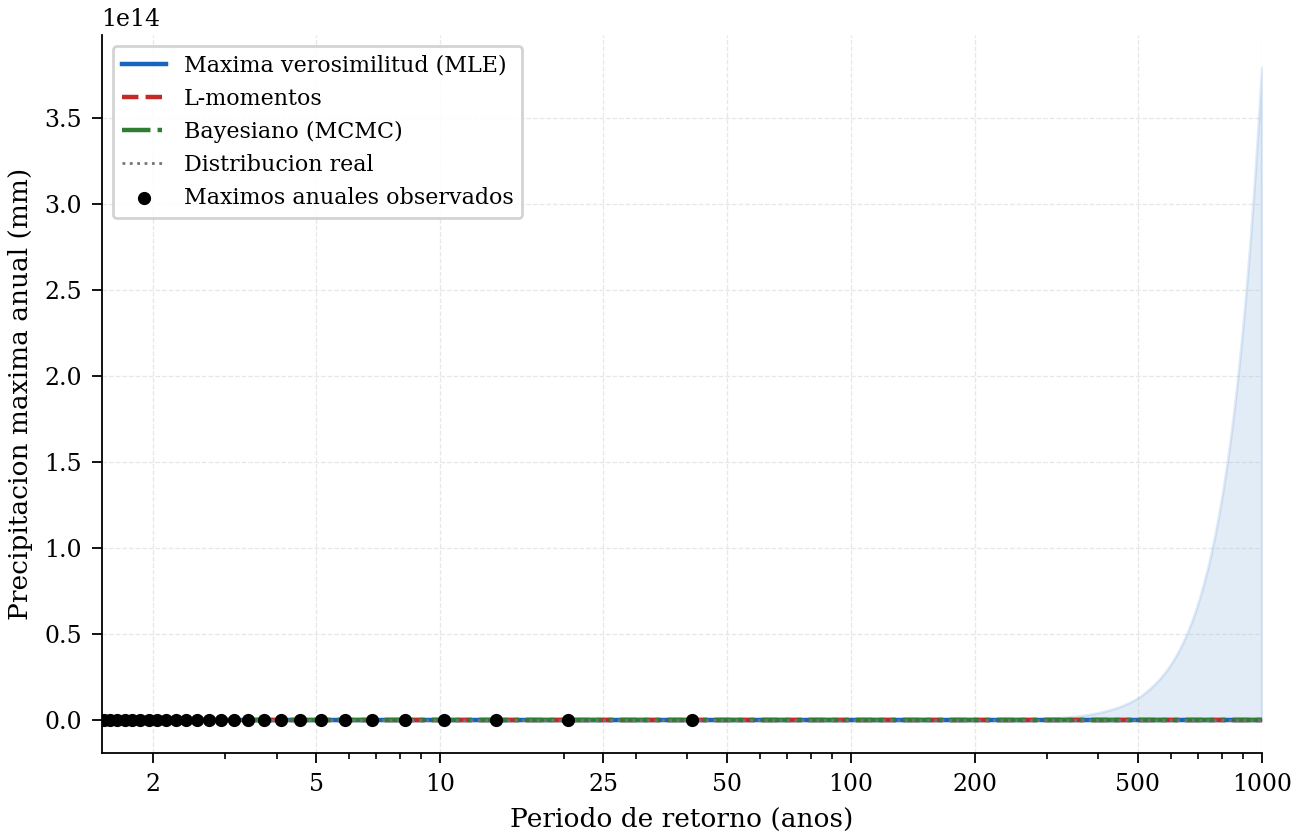
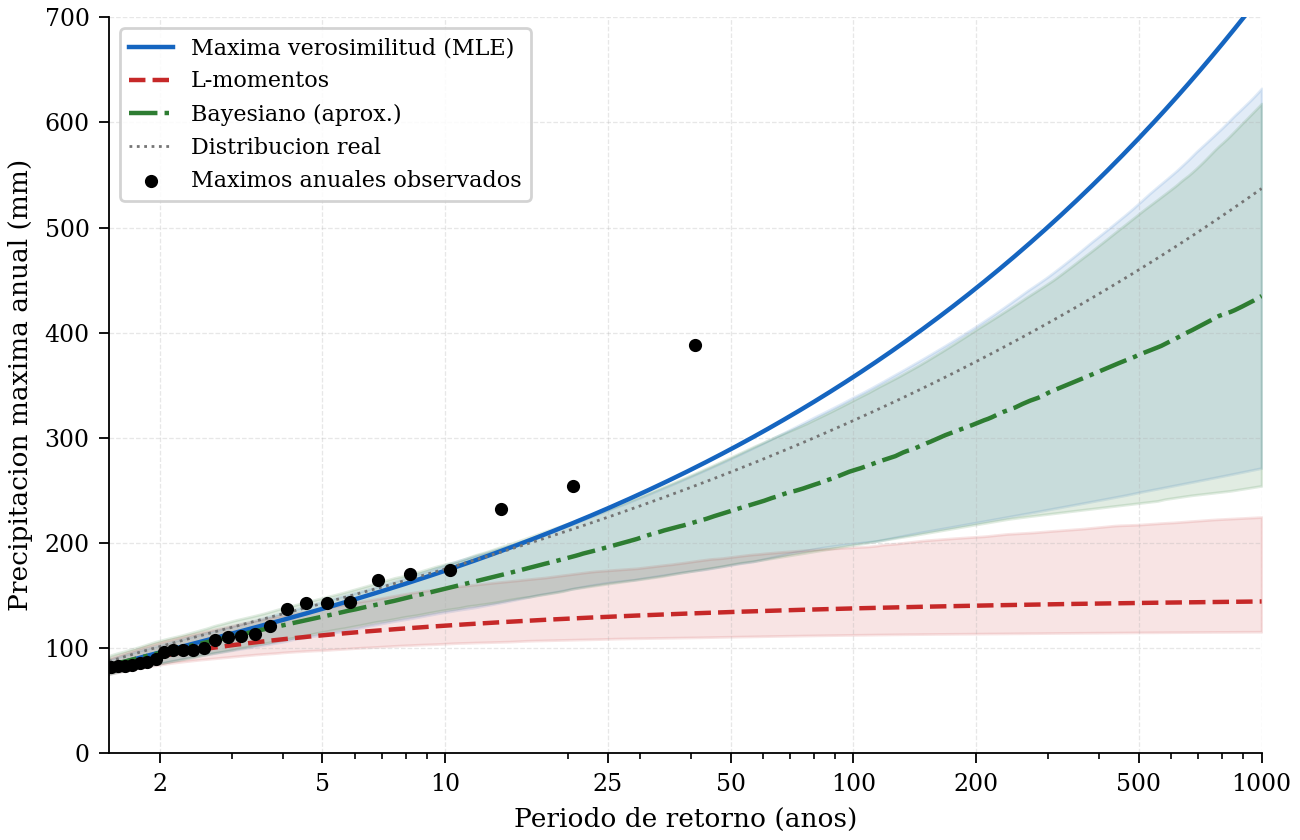
Revisa figuras y trazabilidad de datos de tesis

diff --git a/thesis/chapters/07_manual_uso.tex b/thesis/chapters/07_manual_uso.tex
@@ -196,32 +196,29 @@ Además de los notebooks funcionales generales, el directorio del caso piloto de
 \subsection{Qué puede ejecutar un tercero}
 \label{sec:reproducibilidad_tercero}
 
-La reproducibilidad de \hydra se entiende en términos concretos: qué puede ejecutar un tercero mañana, con qué datos y en qué tiempo. La siguiente tabla clasifica los elementos reproducibles por tipo de dependencia y resultado esperado.
+La reproducibilidad de \hydra se entiende en términos concretos: qué puede ejecutar un tercero, qué dependencia externa condiciona la ejecución y qué evidencia queda para auditar el resultado. La \cref{tab:reproducibilidad} no es una promesa de tiempos universales, sino una matriz de madurez reproducible de los flujos documentados.
 
 \begin{table}[htbp]
   \centering
-  \small
-  \caption{Elementos reproducibles de \hydra clasificados por disponibilidad, datos y tiempo estimado de ejecución.}
+  \footnotesize
+  \caption{Matriz de reproducibilidad de los flujos documentados en \hydra.}
   \label{tab:reproducibilidad}
-  \begin{tabular}{p{0.23\textwidth}p{0.09\textwidth}p{0.13\textwidth}p{0.13\textwidth}p{0.28\textwidth}}
+  \begin{tabular}{@{}>{\raggedright\arraybackslash}p{0.24\textwidth}>{\raggedright\arraybackslash}p{0.17\textwidth}>{\raggedright\arraybackslash}p{0.24\textwidth}>{\raggedright\arraybackslash}p{0.23\textwidth}@{}}
     \toprule
-    Elemento & Disp. & Datos & Tiempo & Resultado esperado \\
+    Flujo & Nivel reproducible & Dependencia externa & Evidencia auditable \\
     \midrule
-    Ajuste GEV sintético (MLE, L-mom., bayesiano) & Sí & Sintéticos & $<$5 min & Curvas de período de retorno con bandas de incertidumbre (fig.~5.1) \\[3pt]
-    Análisis de inundación compuesta (cópulas) & Sí & Sintéticos & $<$5 min & Isolíneas AND/OR, MPDE (fig.~5.2) \\[3pt]
-    Generación estocástica NEOPRENE (NSRP/STNSRP) & Sí & Sintéticos & $<$15 min & Series de lluvia sintéticas puntuales y multisitio \\[3pt]
-    Corrección de sesgo delta/EQM & Sí & Sintéticos o ERA5, CMIP6 & $<$10 min & NetCDF corregido con señal de cambio preservada \\[3pt]
-    Interpolación espacial y AFR & Sí & Sintéticos o AEMET & $<$10 min & GeoTIFF interpolado, cuantiles regionales \\[3pt]
-    Descarga ERA5 (requiere cuenta CDS) & Sí & API abierta & Horas & NetCDF ERA5 horario/mensual \\[3pt]
-    Descarga CMIP6 (requiere cuenta CDS) & Sí & API abierta & Horas & NetCDF de proyecciones por modelo y escenario \\[3pt]
-    Simulación HEC-HMS (requiere HEC-HMS) & Sí & Modelos de referencia & 10--60 min & Hidrogramas DSS para 200 eventos sintéticos \\[3pt]
-    Flujo hidráulico completo con SFINCS & Parcial & DEM + hidrogramas & Horas--días & Mapas de calado por evento, períodos de retorno por pixel \\[3pt]
-    Caso piloto completo (Corrales de Buelna) & Parcial & Datos abiertos + modelo & Días & Distribución de calados, mapa de período de retorno \\
+    Ajuste GEV y comparación de estimadores & Completo & Ninguna; datos sintéticos incluidos & Figura 5.1, parámetros ajustados e intervalos \\
+    Cópulas e inundación compuesta & Completo & Ninguna; datos sintéticos incluidos & Isolíneas AND/OR y punto de diseño MPDE \\
+    Generación estocástica NEOPRENE/CoSMoS & Completo & Librerías instaladas en el entorno Docker & Series sintéticas, semillas y parámetros \\
+    Corrección de sesgo e interpolación espacial & Completo con datos de ejemplo & ERA5/CMIP6 o estaciones si se usa caso real & NetCDF/GeoTIFF con metadatos de fuente \\
+    Descarga de datos externos & Reproducible bajo credenciales & CDS, NASA Earthdata, AEMET o ESGF según fuente & Ficheros descargados y parámetros de consulta \\
+    HEC-HMS, HEC-RAS, SWAT y SFINCS & Reproducible si existe motor/proyecto & Ejecutable y proyecto calibrado del modelo externo & Hidrogramas, mapas o tablas de salida \\
+    Casos piloto completos & Parcial por tamaño/licencias & Datos, modelos y credenciales del caso & Resultados trazables y notebooks de auditoría \\
     \bottomrule
   \end{tabular}
 \end{table}
 
-Los elementos marcados como ``Parcial'' requieren adicionalmente un modelo calibrado o una licencia de software específica. Los primeros seis ítems pueden ejecutarse sin más requisito que tener instalado \pyhydra o el entorno Docker; son los más adecuados para una primera evaluación del marco.
+Los flujos marcados como completos pueden ejecutarse con el entorno Docker y los datos incluidos o sintéticos. Los flujos condicionados por credenciales, motores externos o proyectos calibrados siguen siendo reproducibles en el sentido de trazabilidad de código, parámetros y salidas, pero no son autocontenidos; esta distinción es esencial para no confundir reproducibilidad computacional con redistribución completa de datos y modelos de terceros.
 
 \section{Referencia de la API}
 \label{sec:manual_wiki_api}

diff --git a/thesis/chapters/04_fuentes_datos.tex b/thesis/chapters/04_fuentes_datos.tex
@@ -7,7 +7,7 @@ El bloque de fuentes de datos agrupa los módulos responsables de la adquisició
 
 El principio de diseño de este bloque es la interoperabilidad hacia el interior del paquete. Cada descargador devuelve estructuras \texttt{pandas.DataFrame}, \texttt{xarray.Dataset} o rutas a ficheros NetCDF y GeoTIFF, según corresponda, con índices temporales en UTC y coordenadas en WGS84. Esta convención permite que las salidas del bloque de datos se pasen directamente a los módulos de análisis climático sin transformaciones intermedias.
 
-La selección de fuentes responde a dos criterios técnicos. El primero es la trazabilidad: se priorizan productos con documentación científica o institucional estable, como ERA5 \parencite{hersbach2020era5}, GPM-IMERG \parencite{huffman2020gpm}, PERSIANN-CCS \parencite{hong2004persiannccs}, GloFAS \parencite{alfieri2013glofas}, CMIP6 \parencite{eyring2016cmip6,oneill2016ssp} y SoilGrids \parencite{poggio2021soilgrids}. El segundo es la utilidad operativa: se incluyen portales y librerías de observación como AEMET, OGIMET, Meteostat \parencite{zippenfenig2023meteostat}, GRDC y USGS porque permiten contrastar o sustituir productos de reanálisis y satélite cuando existen registros locales de calidad. La \cref{tab:fuentes} resume las fuentes implementadas, su cobertura y el formato de salida.
+La selección de fuentes responde a dos criterios técnicos. El primero es la trazabilidad: se priorizan productos con documentación científica o institucional estable, como ERA5 \parencite{hersbach2020era5}, GPM-IMERG \parencite{huffman2020gpm}, PERSIANN-CCS \parencite{hong2004persiannccs}, GloFAS \parencite{alfieri2013glofas}, CMIP6 \parencite{eyring2016cmip6,oneill2016ssp} y SoilGrids \parencite{poggio2021soilgrids}. El segundo es la utilidad operativa: se incluyen portales y librerías de observación como AEMET OpenData \parencite{aemetopendata}, OGIMET \parencite{ogimet}, Meteostat \parencite{zippenfenig2023meteostat}, GRDC \parencite{grdcportal} y USGS NWIS \parencite{usgsnwis} porque permiten contrastar o sustituir productos de reanálisis y satélite cuando existen registros locales de calidad. La \cref{tab:fuentes} resume las fuentes implementadas, su cobertura y el formato de salida.
 
 El bloque no decide por sí solo qué fuente es ``mejor'' para un caso; proporciona una interfaz homogénea para comparar fuentes. Esta distinción es importante porque la elección de dato de entrada depende del objetivo técnico. En una cuenca instrumentada, una estación AEMET o Meteostat puede ser la referencia para ajustar extremos; en una cuenca internacional sin red local, ERA5 o GPM-IMERG pueden ser la única base continua; en un estudio de cambio climático, CMIP6 solo es utilizable tras seleccionar modelos, escenarios y aplicar una corrección de sesgo trazable. Por ello, cada descargador conserva metadatos de origen, fecha de descarga, coordenadas, período y parámetros de consulta.
 
@@ -41,7 +41,7 @@ La salida del capítulo 4 alimenta tres tipos de procesos posteriores. Las serie
   },
   arr/.style={-Stealth, line width=0.8pt, color=tg55}
 ]
-\node[source=blueblock] (meteo) at (0,2.35) {\textbf{Precipitación y estación}\\ERA5, GPM, PERSIANN\\AEMET, OGIMET, Meteostat};
+\node[source=blueblock] (meteo) at (0,2.35) {\textbf{Lluvia y estación}\\ERA5, GPM, PERSIANN\\AEMET, \mbox{Meteostat}\\OGIMET};
 \node[source=blueblock] (flow) at (0,0.80) {\textbf{Caudal}\\GloFAS, GRDC\\USGS};
 \node[source=blueblock] (cmip) at (0,-0.75) {\textbf{Clima futuro}\\CMIP6 CDS/ESGF\\SSP};
 \node[source=blueblock] (phys) at (0,-2.30) {\textbf{Territorio}\\DEM, SoilGrids\\usos};
@@ -76,11 +76,11 @@ La salida del capítulo 4 alimenta tres tipos de procesos posteriores. Las serie
   \caption{Fuentes de datos implementadas en \texttt{pyhydra.data\_sources}.}
   \label{tab:fuentes} \\
   \toprule
-  Fuente & Cobertura & Variable principal & Resolución & Formato salida \\
+  Fuente & Cobertura & Variable & Resolución & Formato salida \\
   \midrule
   \endfirsthead
   \toprule
-  Fuente & Cobertura & Variable principal & Resolución & Formato salida \\
+  Fuente & Cobertura & Variable & Resolución & Formato salida \\
   \midrule
   \endhead
   ERA5 & Global, 1940--hoy & Precipitación, temperatura, viento & 0.25\textdegree{}, 1 h & NetCDF \\[2pt]
@@ -103,7 +103,7 @@ La salida del capítulo 4 alimenta tres tipos de procesos posteriores. Las serie
 
 \subsection{ERA5}
 
-ERA5 \parencite{hersbach2020era5} es el reanálisis atmosférico de referencia del Centro Europeo de Previsiones Meteorológicas a Medio Plazo (ECMWF). Con cobertura global desde 1940, resolución horizontal de 0.25\textdegree{} y temporal de una hora, proporciona la base de precipitación para estudios en regiones con escasa red de observación y para la corrección de sesgo de proyecciones climáticas. El módulo \texttt{era5.py} encapsula la descarga mediante la API CDS (\texttt{cdsapi}), acepta una caja bounding-box, un rango temporal y una lista de variables CDS, y devuelve el fichero NetCDF descargado junto con el \texttt{Dataset} xarray listo para análisis.
+ERA5 \parencite{hersbach2020era5} es el reanálisis atmosférico de referencia del Centro Europeo de Previsiones Meteorológicas a Medio Plazo (ECMWF). Con cobertura global desde 1940, resolución horizontal de 0.25\textdegree{} y temporal de una hora, proporciona la base de precipitación para estudios en regiones con escasa red de observación y para la corrección de sesgo de proyecciones climáticas. El módulo \texttt{era5.py} encapsula la descarga mediante la API CDS (\texttt{cdsapi}) del Climate Data Store de Copernicus \parencite{copernicuscds}, acepta una caja bounding-box, un rango temporal y una lista de variables CDS, y devuelve el fichero NetCDF descargado junto con el \texttt{Dataset} xarray listo para análisis.
 
 Su uso principal en esta tesis es como referencia observacional para calibrar generadores estocásticos, como dato de entrada para modelos hidrológicos en cuencas sin aforos, y como campo observado de referencia para la corrección de sesgo de CMIP6. En el caso del lago Tanganica \parencite{navas2025tanganicaIA}, ERA5 fue la única fuente de precipitación disponible para una reconstrucción hidrológica de la cuenca del Congo desde 1979.
 
@@ -111,21 +111,21 @@ La principal limitación de ERA5 en estudios de inundación es su resolución es
 
 \subsection{GPM-IMERG}
 
-La constelación GPM (Global Precipitation Measurement) y su producto IMERG \parencite{huffman2020gpm} ofrecen precipitación semiglobal a 0.1\textdegree{} y 30 minutos desde 2000. Su resolución espacial y temporal superior a ERA5 lo convierte en la fuente satelital preferente para análisis de tormentas convectivas y eventos de corta duración en cuencas medias y pequeñas. El módulo \texttt{gpm.py} implementa la descarga desde el sistema Earthdata de la NASA mediante autenticación con usuario y contraseña, acepta coordenadas y rango temporal, y guarda los ficheros HDF5 originales con conversión automática a NetCDF.
+La constelación GPM (Global Precipitation Measurement) y su producto IMERG \parencite{huffman2020gpm} ofrecen precipitación semiglobal a 0.1\textdegree{} y 30 minutos desde 2000. Su resolución espacial y temporal superior a ERA5 lo convierte en la fuente satelital preferente para análisis de tormentas convectivas y eventos de corta duración en cuencas medias y pequeñas. El módulo \texttt{gpm.py} implementa la descarga desde NASA Earthdata \parencite{nasaearthdata} mediante autenticación con usuario y contraseña, acepta coordenadas y rango temporal, y guarda los ficheros HDF5 originales con conversión automática a NetCDF.
 
 GPM-IMERG se utiliza principalmente como fuente de diagnóstico espacial: permite comprobar si el patrón de lluvia de un episodio es compatible con la red de estaciones disponible, identificar máximos no capturados por pluviómetros aislados y construir campos iniciales para interpolación o validación. En eventos locales extremos debe usarse con cautela, porque el sesgo puede variar con la intensidad, la orografía y el tipo de precipitación.
 
 \subsection{PERSIANN-CCS}
 
-PERSIANN-CCS \parencite{hong2004persiannccs} proporciona estimaciones de precipitación a partir de imágenes infrarrojas de satélite con resolución espacial fina y frecuencia subdiaria. Su ventaja principal es la disponibilidad operativa de campos horarios con cobertura semiglobal, útiles para diagnóstico de episodios convectivos y comparación con otras fuentes satelitales como GPM-IMERG. El módulo \texttt{persiann.py} implementa el descargador \texttt{PERSSIANDownloader}, que accede al servidor FTP de la Universidad de California, Irvine, y exporta los campos seleccionados a NetCDF. En los casos históricos de la línea se citan también productos de la familia PERSIANN-CDR \parencite{ashouri2015persiann}, pero el conector actual de \pyhydra y el notebook de la web documentan PERSIANN-CCS.
+PERSIANN-CCS \parencite{hong2004persiannccs} proporciona estimaciones de precipitación a partir de imágenes infrarrojas de satélite con resolución espacial fina y frecuencia subdiaria. Su ventaja principal es la disponibilidad operativa de campos horarios con cobertura semiglobal, útiles para diagnóstico de episodios convectivos y comparación con otras fuentes satelitales como GPM-IMERG. El módulo \texttt{persiann.py} implementa el descargador \texttt{PERSSIANDownloader}, que accede al servidor de datos del Center for Hydrometeorology and Remote Sensing de la Universidad de California, Irvine \parencite{chrsdata}, y exporta los campos seleccionados a NetCDF. En los casos históricos de la línea se citan también productos de la familia PERSIANN-CDR \parencite{ashouri2015persiann}, pero el conector actual de \pyhydra y el notebook de la web documentan PERSIANN-CCS.
 
 En el flujo de la tesis, PERSIANN no se interpreta como una verdad observacional independiente, sino como una fuente remota de apoyo. Su valor aparece especialmente cuando la red pluviométrica es escasa o cuando interesa contrastar la localización de núcleos convectivos. La metodología mantiene separada la descarga del producto, su validación frente a estaciones y su eventual uso como covariable o campo de referencia.
 
 \subsection{AEMET, OGIMET y Meteostat}
 
-Para estudios en España, el módulo \texttt{aemet.py} utiliza la API REST pública de AEMET OpenData para descargar observaciones diarias de cualquier estación de la red oficial, retornando un \texttt{DataFrame} con índice de fechas y columnas por variable. La autenticación requiere una clave de API gratuita del portal AEMET.
+Para estudios en España, el módulo \texttt{aemet.py} utiliza la API REST pública de AEMET OpenData \parencite{aemetopendata} para descargar observaciones diarias de cualquier estación de la red oficial, retornando un \texttt{DataFrame} con índice de fechas y columnas por variable. La autenticación requiere una clave de API gratuita del portal AEMET.
 
-El módulo \texttt{ogimet.py} accede a los mensajes SYNOP horarios del portal Ogimet, que agrega información de la red meteorológica internacional bajo el convenio WMO. Permite recuperar datos horarios de estaciones europeas con registros en ocasiones superiores a 50 años, y es especialmente útil cuando se necesita frecuencia subdiaria o los mensajes SYNOP en bruto, por ejemplo para desagregación temporal.
+El módulo \texttt{ogimet.py} accede a los mensajes SYNOP horarios del portal OGIMET \parencite{ogimet}, que agrega información de la red meteorológica internacional bajo el convenio WMO. Permite recuperar datos horarios de estaciones europeas con registros en ocasiones superiores a 50 años, y es especialmente útil cuando se necesita frecuencia subdiaria o los mensajes SYNOP en bruto, por ejemplo para desagregación temporal.
 
 El módulo \texttt{meteostat.py} \parencite{zippenfenig2023meteostat} integra la librería Meteostat, que agrega datos históricos de estaciones meteorológicas procedentes de múltiples fuentes institucionales (NOAA ISD, DWD CDC, AEMET, Environment Canada, entre otras) en una única API Python oficial. Cubre cerca de 70\,000 estaciones a escala global con resolución diaria y horaria, e incluye variables de temperatura (media, mínima y máxima), precipitación, humedad relativa, presión y velocidad del viento. Las estaciones se identifican mediante códigos WMO, coincidentes con los de OGIMET, lo que facilita la validación cruzada entre fuentes. Meteostat es la fuente preferente para descargas largas de datos diarios y horarios de estación por su API estable, sin limitaciones de tasa y sin acceso por \textit{scraping}; OGIMET se reserva para casos en que se requieren mensajes SYNOP subhorarios en bruto. El módulo incluye un widget interactivo (\texttt{MeteostatDownloader}) que permite explorar y descargar estaciones cercanas a un punto mediante un mapa Leaflet en JupyterLab, y funciones de selección automática de la mejor estación para un punto y período dados (\texttt{download\_best\_meteostat\_series}).
 
@@ -141,17 +141,17 @@ En aplicaciones de riesgo, GloFAS se trata como una fuente de contexto hidrológ
 
 \subsection{GRDC y USGS}
 
-El módulo \texttt{grdc.py} lee ficheros de texto descargados del Global Runoff Data Centre, homogeneizando el formato de cabecera y generando \texttt{DataFrame} con índice temporal. El módulo \texttt{usgs.py} descarga datos de caudal del sistema NWIS de la USGS mediante la API REST, con el parámetro estándar 00060 para caudal en ft$^3$/s. Ambas fuentes son la referencia para estudios de calibración y validación de modelos en cuencas con red de aforos.
+El módulo \texttt{grdc.py} lee ficheros de texto descargados del Global Runoff Data Centre \parencite{grdcportal}, homogeneizando el formato de cabecera y generando \texttt{DataFrame} con índice temporal. El módulo \texttt{usgs.py} descarga datos de caudal del National Water Information System de la USGS \parencite{usgsnwis} mediante la API REST, con el parámetro estándar 00060 para caudal en ft$^3$/s. Ambas fuentes son la referencia para estudios de calibración y validación de modelos en cuencas con red de aforos.
 
 \section{Datos climáticos y proyecciones}
 
 \subsection{CMIP6 vía Copernicus CDS}
 
-El submódulo \texttt{climate\_change.copernicus} utiliza la API CDS para descargar proyecciones del conjunto CMIP6 \parencite{eyring2016cmip6} bajo los escenarios SSP \parencite{oneill2016ssp}. Acepta variable, modelo, experimento, resolución temporal, rango de años y bounding-box, y descarga los ficheros NetCDF directamente al directorio de salida indicado. Esta vía es la recomendada para variables de superficie (precipitación y temperatura en 2 m) de los modelos más utilizados en estudios europeos.
+El submódulo \texttt{climate\_change.copernicus} utiliza la API CDS \parencite{copernicuscds} para descargar proyecciones del conjunto CMIP6 \parencite{eyring2016cmip6} bajo los escenarios SSP \parencite{oneill2016ssp}. Acepta variable, modelo, experimento, resolución temporal, rango de años y bounding-box, y descarga los ficheros NetCDF directamente al directorio de salida indicado. Esta vía es la recomendada para variables de superficie (precipitación y temperatura en 2 m) de los modelos más utilizados en estudios europeos.
 
 \subsection{CMIP6 vía ESGF}
 
-Para variables o modelos no disponibles en CDS, el submódulo \path{climate_change.esgf} accede al Earth System Grid Federation mediante \texttt{pyesgf}. Esta vía requiere cuenta en un nodo ESGF y permite acceder a la colección completa de CMIP6, incluyendo variables atmosféricas de nivel superior o modelos de menor difusión. El módulo gestiona la autenticación, la búsqueda de ficheros por facetas (variable, modelo, experimento, frecuencia) y la descarga ordenada.
+Para variables o modelos no disponibles en CDS, el submódulo \path{climate_change.esgf} accede al Earth System Grid Federation \parencite{esgfportal} mediante \texttt{pyesgf}. Esta vía requiere cuenta en un nodo ESGF y permite acceder a la colección completa de CMIP6, incluyendo variables atmosféricas de nivel superior o modelos de menor difusión. El módulo gestiona la autenticación, la búsqueda de ficheros por facetas (variable, modelo, experimento, frecuencia) y la descarga ordenada.
 
 La elección del escenario (SSP2-4.5 para trayectoria intermedia, SSP5-8.5 para alta emisión), el número de modelos y el período de análisis son decisiones metodológicas que \hydra no impone, pero sí registra en los metadatos del Dataset para garantizar la trazabilidad de los resultados.
 

diff --git a/thesis/figures/gen_figures.py b/thesis/figures/gen_figures.py
@@ -109,7 +109,7 @@ def lmom_fit_gev(data):
     return mu, sigma, xi
 
 
-def bootstrap_bands(data, T_arr, n_boot=600, method="mle", ci=90):
+def bootstrap_bands(data, T_arr, n_boot=600, method="mle", ci=90, y_cap=None):
     """Bootstrap (5th–95th %) confidence bands for return level curve."""
     lo = (100 - ci) / 2
     hi = 100 - lo
@@ -127,6 +127,8 @@ def bootstrap_bands(data, T_arr, n_boot=600, method="mle", ci=90):
             else:
                 raise ValueError
             rl = gev_rl_arr(T_arr, mu, sigma, xi)
+            if y_cap is not None and np.nanmax(rl) > y_cap:
+                continue
             if np.all(np.isfinite(rl)) and np.all(rl > 0):
                 curves.append(rl)
         except Exception:
@@ -155,12 +157,13 @@ def fig_gev_comparacion():
     c_mle, loc_mle, scale_mle = genextreme.fit(data)
     mu_mle, sigma_mle, xi_mle = loc_mle, scale_mle, -c_mle
     rl_mle = gev_rl_arr(T_arr, mu_mle, sigma_mle, xi_mle)
-    lo_mle, hi_mle = bootstrap_bands(data, T_arr, method="mle")
+    y_cap = 650.0
+    lo_mle, hi_mle = bootstrap_bands(data, T_arr, method="mle", y_cap=y_cap)
 
     # — L-moments fit —
     mu_lm, sigma_lm, xi_lm = lmom_fit_gev(data)
     rl_lm = gev_rl_arr(T_arr, mu_lm, sigma_lm, xi_lm)
-    lo_lm, hi_lm = bootstrap_bands(data, T_arr, method="lmom")
+    lo_lm, hi_lm = bootstrap_bands(data, T_arr, method="lmom", y_cap=y_cap)
 
     # — Approximate Bayesian (MCMC approximated via parametric bootstrap) —
     rng2 = np.random.default_rng(99)
@@ -171,6 +174,8 @@ def fig_gev_comparacion():
         try:
             c2, l2, sc2 = genextreme.fit(s)
             rl = gev_rl_arr(T_arr, l2, sc2, -c2)
+            if np.nanmax(rl) > y_cap:
+                continue
             if np.all(np.isfinite(rl)) and np.all(rl > 0):
                 curves_b.append(rl)
         except Exception:
@@ -199,7 +204,7 @@ def fig_gev_comparacion():
     # Fitted curves
     ax.plot(T_arr, rl_mle,  color=BLUE,  lw=1.6, label="Maxima verosimilitud (MLE)")
     ax.plot(T_arr, rl_lm,   color=RED,   lw=1.6, label="L-momentos",            linestyle="--")
-    ax.plot(T_arr, rl_b,    color=GREEN, lw=1.6, label="Bayesiano (MCMC)",       linestyle="-.")
+    ax.plot(T_arr, rl_b,    color=GREEN, lw=1.6, label="Bayesiano (aprox.)",      linestyle="-.")
     ax.plot(T_arr, rl_true, color=GREY,  lw=1.0, label="Distribucion real", linestyle=":")
 
     # Observed data
@@ -212,6 +217,7 @@ def fig_gev_comparacion():
     ax.set_xticks([2, 5, 10, 25, 50, 100, 200, 500, 1000])
     ax.set_xticklabels(["2", "5", "10", "25", "50", "100", "200", "500", "1000"])
     ax.set_xlim(1.5, 1000)
+    ax.set_ylim(0, 700)
     ax.legend(loc="upper left", framealpha=0.85, edgecolor="0.8")
 
     fig.savefig(OUT / "fig_gev_comparacion.pdf")

diff --git a/thesis/chapters/03_hydra_arquitectura.tex b/thesis/chapters/03_hydra_arquitectura.tex
@@ -345,14 +345,14 @@ La misma separación se mantiene en el despliegue cloud. En el flujo usado para 
   soft/.style={-Stealth, line width=0.55pt, color=tg40}
 ]
 \node[box=blueblock] (github) at (-5.2,2.25) {\textbf{GitHub}\\código, notebooks\\web, API, Docker};
-\node[box=tealblock] (actions) at (-1.75,2.25) {\textbf{GitHub Actions}\\build Linux/amd64};
-\node[box=tealblock] (registry) at (1.75,2.25) {\textbf{Registro}\\hydra-web\\hydra-api\\hydra-jupyter};
+\node[box=tealblock] (actions) at (-1.75,2.25) {\textbf{GitHub Actions}\\construcción\\de imágenes};
+\node[box=tealblock] (registry) at (1.75,2.25) {\textbf{Registro ACR}\\web, api\\y jupyter};
 \node[box=orangeblock] (aca) at (5.2,2.25) {\textbf{Azure}\\Container Apps\\red interna};
 
 \node[service=orangeblock] (web) at (-4.5,0.30) {\textbf{web}\\Astro + nginx\\catálogo y proxy};
 \node[service=orangeblock] (api) at (0,0.30) {\textbf{api}\\FastAPI\\sesiones y utilidades};
 \node[service=orangeblock] (jupyter) at (4.5,0.30) {\textbf{jupyter}\\JupyterLab\\\pyhydra editable};
-\node[wide=blueblock] (files) at (0,-1.55) {\textbf{Azure Files / volumen de datos}\\notebooks de sesión, proyectos externos y resultados};
+\node[wide=blueblock] (files) at (0,-1.55) {\textbf{Azure Files}\\volumen persistente\\notebooks, proyectos y resultados};
 
 \node[box=redstep] (user) at (-4.6,-3.15) {\textbf{Usuario}\\abre notebook};
 \node[box=redstep] (copy) at (0,-3.15) {\textbf{Sesión}\\copia aislada\\del notebook};

diff --git a/thesis/chapters/08_casos_estudio_validacion.tex b/thesis/chapters/08_casos_estudio_validacion.tex
@@ -486,17 +486,17 @@ El análisis RFA local (9 estaciones próximas) produce estimaciones más establ
 \begin{figure}[p]
   \centering
   \begin{subfigure}{0.94\textwidth}
-    \includegraphics[width=\textwidth]{figures/fig_valencia_return_levels_8337X.png}
+    \includegraphics[width=\textwidth]{figures/fig_valencia_return_levels_8337X_clean.png}
     \caption{Turís (8137X).}
     \label{fig:valencia_rl_turis}
   \end{subfigure}
   \vspace{0.8em}
   \begin{subfigure}{0.94\textwidth}
-    \includegraphics[width=\textwidth]{figures/fig_valencia_return_levels_V103.png}
+    \includegraphics[width=\textwidth]{figures/fig_valencia_return_levels_V103_clean.png}
     \caption{Carlet (V103).}
     \label{fig:valencia_rl_carlet}
   \end{subfigure}
-  \caption{Curvas de niveles de retorno estimadas en las estaciones de Turís y Carlet mediante los diferentes métodos implementados en \hydra. Los gráficos ilustran la extrapolación de la precipitación máxima diaria para períodos de retorno de hasta 1.000 años, comparando la estimación bayesiana (mediana e intervalos de credibilidad del 90\%) con los ajustes frecuentistas por máxima verosimilitud (MLE) y L-momentos.}
+  \caption{Comparación de niveles de retorno para $T=100$ años en las estaciones de Turís y Carlet, con y sin inclusión del episodio DANA del 29 de octubre de 2024. La figura procede del análisis del caso Valencia \parencite{navas2025valenciaIA}; se reproduce como evidencia de contraste metodológico, no como salida directa de un notebook general de \hydra.}
   \label{fig:valencia_return_levels}
 \end{figure}
 

diff --git a/thesis/chapters/05_clima_estadistica.tex b/thesis/chapters/05_clima_estadistica.tex
@@ -41,14 +41,14 @@ El módulo \texttt{time\_series.extremes} implementa el ajuste de distribuciones
   \item[Aproximación de Fisher] La función \texttt{fit\_gev\_fisher} estima la incertidumbre paramétrica mediante la matriz de información de Fisher, produciendo muestras de la distribución asintoticamente gaussiana de los parámetros sin recurrir a MCMC. Es un intermedio entre MLE y la inferencia bayesiana completa.
 \end{description}
 
-La \cref{fig:gev_comparacion} ilustra el comportamiento comparativo de los tres estimadores sobre un conjunto de 40 máximos anuales generados con parámetros GEV conocidos ($\mu=90$, $\sigma=30$, $\xi=0{,}20$). Las bandas de incertidumbre se obtienen por bootstrap no paramétrico (MLE y L-momentos) y por bootstrap paramétrico (tercer método). La figura sirve como referencia operativa para identificar visualmente las diferencias entre métodos antes de aplicarlos sobre datos reales.
+La \cref{fig:gev_comparacion} ilustra el comportamiento comparativo de tres estimadores sobre un conjunto de 40 máximos anuales generados con parámetros GEV conocidos ($\mu=90$, $\sigma=30$, $\xi=0{,}20$). Las bandas de incertidumbre se obtienen por remuestreo: bootstrap no paramétrico para MLE y L-momentos, y remuestreo paramétrico como aproximación visual a la incertidumbre posterior del enfoque bayesiano. La figura no pretende sustituir el diagnóstico sobre datos reales; su función es mostrar que las diferencias entre estimadores se amplifican fuera del rango observado.
 
 La comparación sistemática sobre datos reales se realiza en el caso de la precipitación extrema del 29 de octubre de 2024 en la Comunidad Valenciana (\cref{sec:caso_valencia}), que permite contrastar MLE, L-momentos y MCMC sobre las mismas series observadas, con y sin incluir el evento extraordinario, y documentar el cambio en los niveles de retorno y la incertidumbre de cada método \parencite{navas2025valenciaIA}.
 
 \begin{figure}[htbp]
   \centering
   \includegraphics[width=0.88\linewidth]{figures/fig_gev_comparacion}
-  \caption{Comparación ilustrativa de los tres métodos de ajuste GEV sobre 40 máximos anuales sintéticos (parámetros reales: $\mu=90$~mm, $\sigma=30$~mm, $\xi=0{,}20$). MLE y L-momentos usan bootstrap no paramétrico (remuestra de los datos); el tercer método usa bootstrap paramétrico (remuestra de la distribución ajustada por MLE). La curva real punteada sirve de referencia. Los tres métodos convergen en el rango observado y divergen a partir de $T \approx 100$ años. Elaboración propia.}
+  \caption{Comparación ilustrativa de tres métodos de ajuste GEV sobre 40 máximos anuales sintéticos (parámetros reales: $\mu=90$~mm, $\sigma=30$~mm, $\xi=0{,}20$). MLE y L-momentos usan bootstrap no paramétrico; el enfoque bayesiano se representa mediante una banda de incertidumbre paramétrica comparable. La curva real punteada sirve de referencia. Los métodos son similares dentro del rango observado y divergen progresivamente al extrapolar hacia períodos de retorno altos. Elaboración propia.}
   \label{fig:gev_comparacion}
 \end{figure}
 